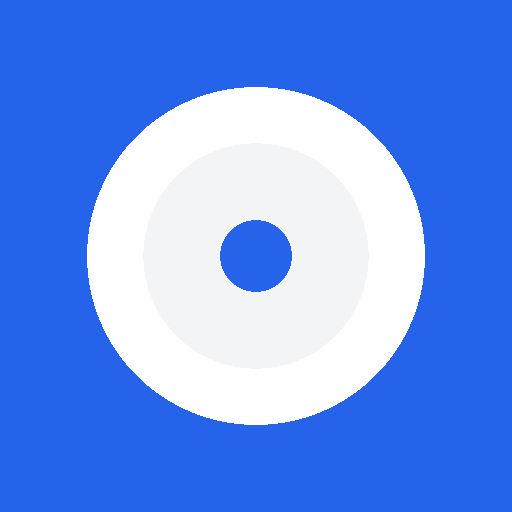
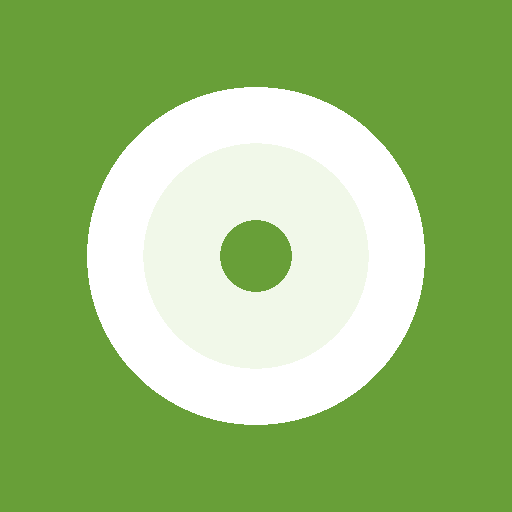
Web app: white and green like Kalorické tabulky

diff --git a/webapp/index.html b/webapp/index.html
@@ -14,7 +14,7 @@
 <meta name="apple-mobile-web-app-title" content="Lunch">
 <meta name="apple-mobile-web-app-status-bar-style" content="default">
 <style>
-  :root { --bg:#fff; --fg:#1d1d1f; --muted:#6b7280; --card:#f3f4f6; --accent:#2563eb; --ok:#15803d; --err:#b91c1c; }
+  :root { --bg:#fff; --fg:#1d1d1f; --muted:#5f6b57; --card:#f1f8e9; --accent:#558b2f; --ok:#2e7d32; --err:#b91c1c; }
   * { box-sizing: border-box; }
   body { margin:0; padding:max(16px, env(safe-area-inset-top)) 16px max(16px, env(safe-area-inset-bottom)); font:16px/1.4 system-ui, sans-serif; background:var(--bg); color:var(--fg); max-width:480px; margin-inline:auto; }
   h1 { font-size:20px; margin:8px 0 16px; }
